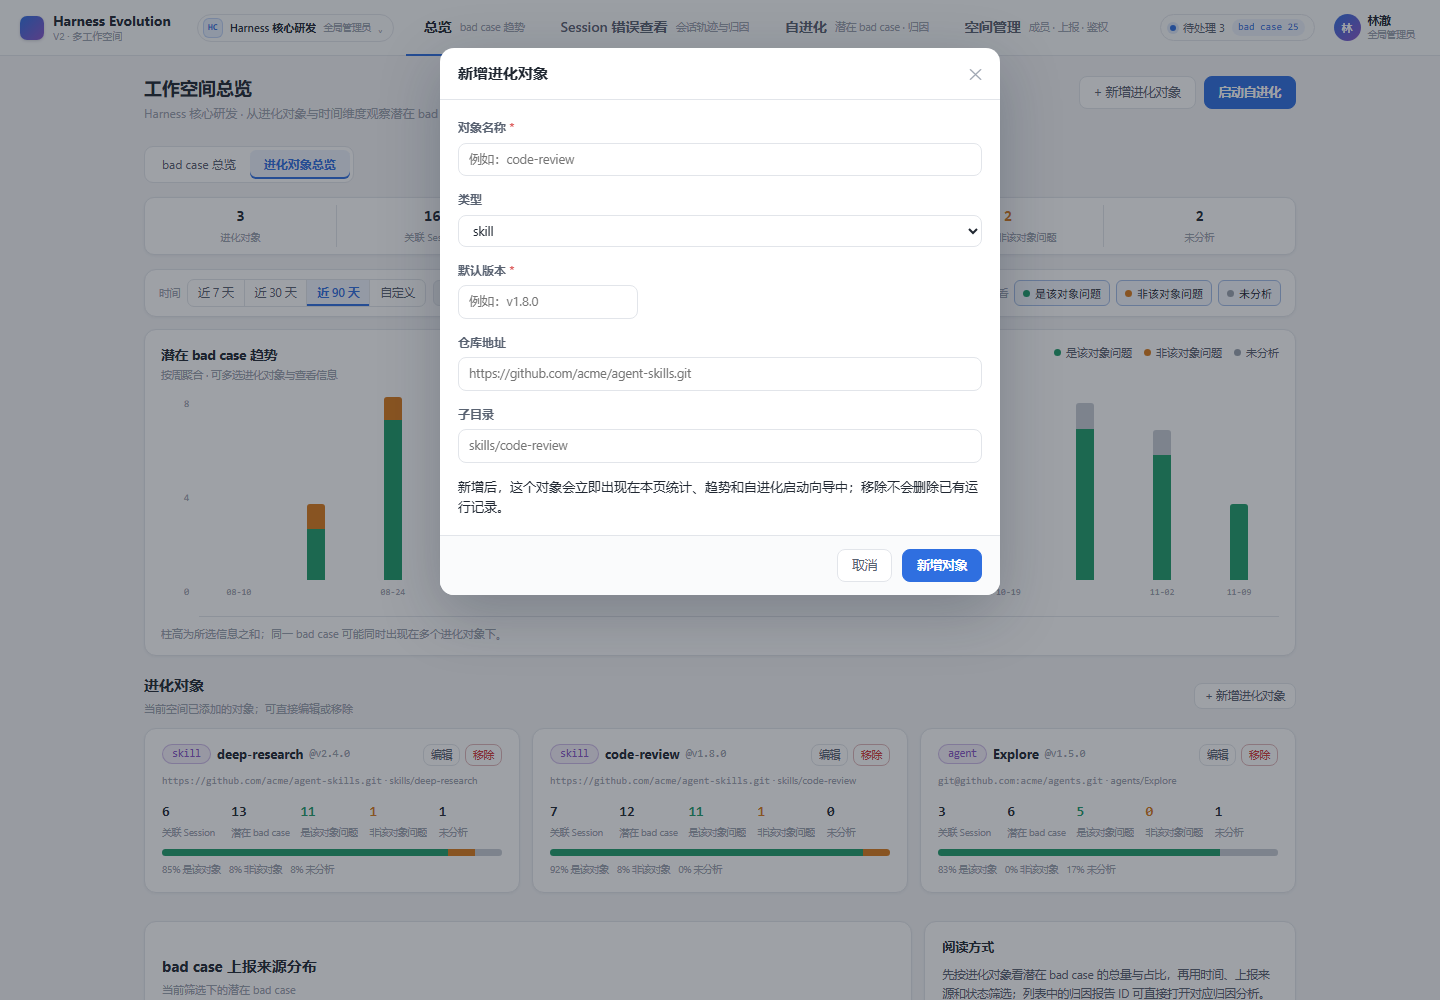
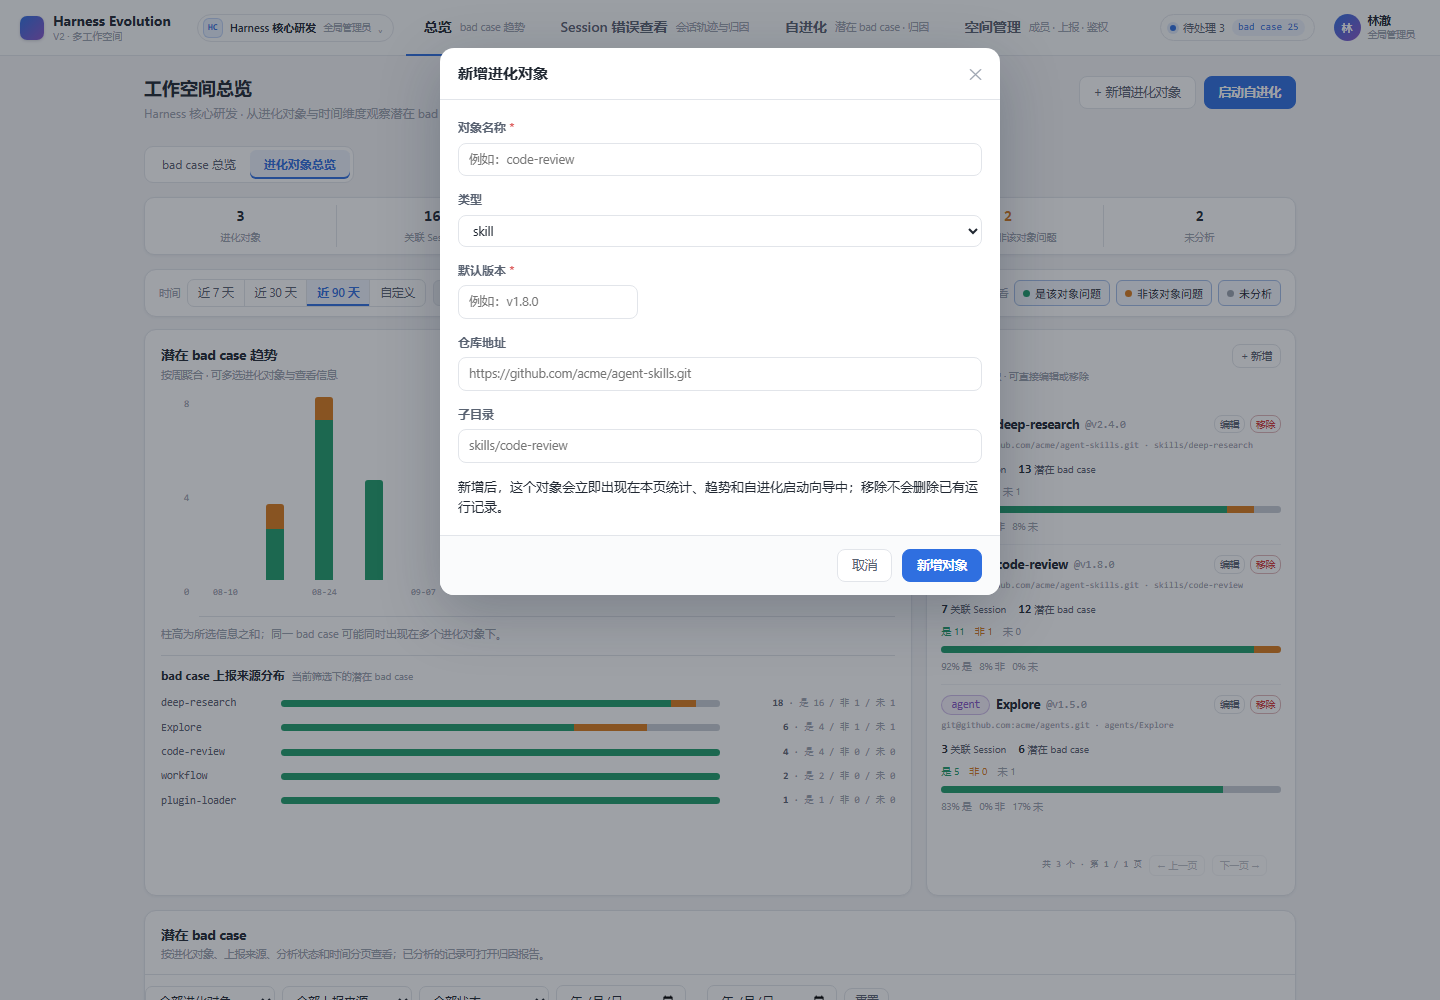
feat(prototype): align target overview with case overview

diff --git a/plans/ui-prototype-v2/harness-evolution.html b/plans/ui-prototype-v2/harness-evolution.html
@@ -970,6 +970,30 @@
 .v2-page .tg-bar.notTarget { background: var(--orange); }
 .v2-page .tg-bar.unanalyzed { background: #c7ccd4; }
 .v2-page .tg-lbl { font-family: var(--mono); font-size: 9px; color: var(--text-faint); white-space: nowrap; height: 12px; }
+.v2-page .tg-side { padding: 14px 14px 10px; }
+.v2-page .tg-side-head { display: flex; align-items: flex-start; justify-content: space-between; gap: 8px; margin-bottom: 8px; }
+.v2-page .tg-side-head h3 { margin: 0; font-size: 14px; }
+.v2-page .tg-side-head .v2-note { display: block; margin-top: 2px; }
+.v2-page .tg-side-head .btn { padding: 3px 8px; font-size: 10.5px; }
+.v2-page .tg-side-item { padding: 10px 0; border-top: 1px solid #f0f2f5; }
+.v2-page .tg-side-item:first-child { border-top: 0; }
+.v2-page .tg-side-top { display: flex; align-items: flex-start; justify-content: space-between; gap: 7px; }
+.v2-page .tg-side-top .tg-target-title b { font-size: 12.5px; }
+.v2-page .tg-side-top .tg-target-actions .btn { padding: 1px 5px; font-size: 9.5px; }
+.v2-page .tg-side-repo { margin-top: 4px; font-family: var(--mono); font-size: 9px; color: var(--text-faint); white-space: nowrap; overflow: hidden; text-overflow: ellipsis; }
+.v2-page .tg-side-meta { display: flex; gap: 12px; margin-top: 7px; font-size: 10px; color: var(--text-dim); }
+.v2-page .tg-side-meta b { font-family: var(--mono); font-size: 12px; color: var(--text); }
+.v2-page .tg-side-counts { display: flex; gap: 10px; margin-top: 5px; font-size: 10px; color: var(--text-faint); }
+.v2-page .tg-side .tg-ratio { margin-top: 7px; }
+.v2-page .tg-side .v2-pager { margin-top: 9px; gap: 7px; }
+.v2-page .tg-side .v2-pager .info { font-size: 9px; }
+.v2-page .tg-side .v2-pager button { padding: 2px 7px; font-size: 9.5px; }
+.v2-page .tg-source-objects { margin-top: 12px; border-top: 1px solid var(--border); padding-top: 10px; }
+.v2-page .tg-source-title { display: flex; align-items: baseline; gap: 7px; margin-bottom: 3px; font-size: 12px; font-weight: 650; }
+.v2-page .tg-source-title span { font-size: 10px; color: var(--text-faint); font-weight: 400; }
+.v2-page .tg-source-obj { grid-template-columns: 110px minmax(0, 1fr) 165px; }
+.v2-page .tg-source-obj .ov-obj-num { font-size: 9.5px; }
+.v2-page .tg-source-obj .ov-obj-bar { height: 7px; border-radius: 4px; overflow: hidden; background: #e8ebf0; }
 .v2-page .tg-section-head { display: flex; align-items: center; justify-content: space-between; gap: 12px; margin: 18px 0 10px; }
 .v2-page .tg-section-head h2 { font-size: 15px; margin: 0; }
 .v2-page .tg-section-head .v2-note { display: block; margin-top: 3px; }
@@ -4261,7 +4285,7 @@ const V2 = {
   targetOv: {
     targets: new Set(), metrics: new Set(['isTarget', 'notTarget', 'unanalyzed']),
     listTarget: '', listSource: '', listStatus: 'all',
-    listFrom: '', listTo: '', page: 1, multiOpen: false,
+    listFrom: '', listTo: '', page: 1, targetPage: 1, multiOpen: false,
   },
   admin: { tab: 'spaces' },
   loginChoice: 'admin',
@@ -4456,7 +4480,7 @@ function v2SwitchWorkspace(id) {
   V2.wsId = id;
   V2.overview.objects.clear(); V2.overview.page = 1;
   V2.overview.listObject = ''; V2.overview.listType = 'all';
-  V2.targetOv.targets.clear(); V2.targetOv.page = 1;
+  V2.targetOv.targets.clear(); V2.targetOv.page = 1; V2.targetOv.targetPage = 1;
   V2.targetOv.listTarget = ''; V2.targetOv.listSource = ''; V2.targetOv.listStatus = 'all';
   const picker = document.getElementById('wsPicker'); if (picker) picker.open = false;
   v2RenderShell();
@@ -4819,34 +4843,28 @@ function v2RenderTargetsOverview() {
     </div>`;
   }).join('');
   const sources = v2TargetSourceRows(rows);
-  const targetCards = all.map(d => {
+  const tPageSize = 3;
+  const tPages = Math.max(1, Math.ceil(all.length / tPageSize));
+  const tPage = Math.min(Math.max(1, V2.targetOv.targetPage || 1), tPages);
+  V2.targetOv.targetPage = tPage;
+  const targetSide = all.slice((tPage - 1) * tPageSize, tPage * tPageSize).map(d => {
     const t = d.target, c = d.counts;
-    const ratio = (n) => d.potential ? (n / d.potential * 100).toFixed(0) : 0;
-    return `<div class="card panel tg-target-card ${selected.has(t.id) ? 'selected' : ''}">
-      <div class="tg-target-head">
-        <div class="tg-target-title"><span class="chip kind">${v2Esc(t.kind)}</span><b>${v2Esc(t.objectName)}</b><span class="mono">@${v2Esc(d.version)}</span></div>
-        <div class="tg-target-actions"><button class="btn sm" data-v2-tg-edit="${t.id}">编辑</button><button class="btn sm danger" data-v2-tg-remove="${t.id}">移除</button></div>
-      </div>
-      <div class="tg-target-meta"><span class="mono">${v2Esc(t.repoUrl || '')}</span>${t.subDir ? ` · ${v2Esc(t.subDir)}` : ''}</div>
-      <div class="tg-target-stats">
-        <div><b>${d.assoc}</b><span>关联 Session</span></div>
-        <div><b>${d.potential}</b><span>潜在 bad case</span></div>
-        <div><b style="color:var(--green)">${c.isTarget}</b><span>是该对象问题</span></div>
-        <div><b style="color:var(--orange)">${c.notTarget}</b><span>非该对象问题</span></div>
-        <div><b>${c.unanalyzed}</b><span>未分析</span></div>
-      </div>
-      <div class="tg-ratio" title="是该对象 ${c.isTarget} · 非该对象 ${c.notTarget} · 未分析 ${c.unanalyzed}">
-        <span class="tg-r-is" style="width:${ratio(c.isTarget)}%"></span><span class="tg-r-not" style="width:${ratio(c.notTarget)}%"></span><span class="tg-r-un" style="width:${ratio(c.unanalyzed)}%"></span>
-      </div>
-      <div class="tg-ratio-legend"><span>${ratio(c.isTarget)}% 是该对象</span><span>${ratio(c.notTarget)}% 非该对象</span><span>${ratio(c.unanalyzed)}% 未分析</span></div>
+    const pct = (n) => d.potential ? (n / d.potential * 100).toFixed(0) : 0;
+    return `<div class="tg-side-item ${selected.has(t.id) ? 'selected' : ''}">
+      <div class="tg-side-top"><div class="tg-target-title"><span class="chip kind">${v2Esc(t.kind)}</span><b>${v2Esc(t.objectName)}</b><span class="mono">@${v2Esc(d.version)}</span></div><div class="tg-target-actions"><button class="btn sm" data-v2-tg-edit="${t.id}">编辑</button><button class="btn sm danger" data-v2-tg-remove="${t.id}">移除</button></div></div>
+      <div class="tg-side-repo" title="${v2Esc(t.repoUrl || '')}${t.subDir ? ' · ' + v2Esc(t.subDir) : ''}">${v2Esc(t.repoUrl || '')}${t.subDir ? ` · ${v2Esc(t.subDir)}` : ''}</div>
+      <div class="tg-side-meta"><span><b>${d.assoc}</b> 关联 Session</span><span><b>${d.potential}</b> 潜在 bad case</span></div>
+      <div class="tg-side-counts"><span style="color:var(--green)">是 ${c.isTarget}</span><span style="color:var(--orange)">非 ${c.notTarget}</span><span>未 ${c.unanalyzed}</span></div>
+      <div class="tg-ratio" title="是该对象 ${c.isTarget} · 非该对象 ${c.notTarget} · 未分析 ${c.unanalyzed}"><span class="tg-r-is" style="width:${pct(c.isTarget)}%"></span><span class="tg-r-not" style="width:${pct(c.notTarget)}%"></span><span class="tg-r-un" style="width:${pct(c.unanalyzed)}%"></span></div>
+      <div class="tg-ratio-legend"><span>${pct(c.isTarget)}% 是</span><span>${pct(c.notTarget)}% 非</span><span>${pct(c.unanalyzed)}% 未</span></div>
     </div>`;
   }).join('');
-  const sourceRows = sources.slice(0, 8).map(s => {
+  const sourceRows = sources.slice(0, 6).map(s => {
     const total = s.total || 1;
-    return `<div class="tg-source-row">
-      <span class="tg-source-name">${v2Esc(s.name)}</span>
-      <span class="tg-source-bar"><span class="tg-r-is" style="width:${s.isTarget / total * 100}%"></span><span class="tg-r-not" style="width:${s.notTarget / total * 100}%"></span><span class="tg-r-un" style="width:${s.unanalyzed / total * 100}%"></span></span>
-      <span class="tg-source-num"><b>${s.total}</b> · 是 ${s.isTarget} / 非 ${s.notTarget} / 未 ${s.unanalyzed}</span>
+    return `<div class="ov-obj-row tg-source-obj">
+      <span class="ov-obj-name" title="${v2Esc(s.name)}">${v2Esc(s.name)}</span>
+      <span class="ov-obj-bar"><span class="tg-r-is" style="width:${s.isTarget / total * 100}%"></span><span class="tg-r-not" style="width:${s.notTarget / total * 100}%"></span><span class="tg-r-un" style="width:${s.unanalyzed / total * 100}%"></span></span>
+      <span class="ov-obj-num"><b>${s.total}</b> · 是 ${s.isTarget} / 非 ${s.notTarget} / 未 ${s.unanalyzed}</span>
     </div>`;
   }).join('');
   const tf = V2.targetOv;
@@ -4917,16 +4935,21 @@ function v2RenderTargetsOverview() {
       ${metrics.map(k => `<button class="tg-metric ${V2.targetOv.metrics.has(k) ? 'on' : ''}" data-v2-tg-metric="${k}"><i class="tg-dot ${k}"></i>${V2_TG_STATUS[k].short}</button>`).join('')}
     </div>
   </div>
-  <div class="card ov-chart-card tg-chart-card">
-    <div class="ov-card-head"><div><h2>潜在 bad case 趋势</h2><div class="hint">按${V2.overview.grain === 'day' ? '日' : V2.overview.grain === 'week' ? '周' : '月'}聚合 · 可多选进化对象与查看信息</div></div><span class="spacer"></span><div class="tg-legend">${chosen.map(k => `<span><i class="tg-dot ${k}"></i>${V2_TG_STATUS[k].short}</span>`).join('') || '<span class="v2-note">未选择查看信息</span>'}</div></div>
-    ${rows.length ? `<div class="tg-chart"><div class="tg-yaxis"><span>${bucketMax}</span><span>${Math.round(bucketMax / 2)}</span><span>0</span></div><div class="tg-buckets">${chart}</div></div>` : '<div class="ov-empty"><b>当前条件下没有潜在 bad case</b>调整时间、进化对象或查看信息后重试。</div>'}
-    <p class="v2-note" style="margin:8px 0 0">柱高为所选信息之和；同一 bad case 可能同时出现在多个进化对象下。</p>
-  </div>
-  <div class="tg-section-head"><div><h2>进化对象</h2><span class="v2-note">当前空间已添加的对象；可直接编辑或移除</span></div><button class="btn sm" data-v2-tg-add>+ 新增进化对象</button></div>
-  <div class="tg-target-grid">${targetCards || '<div class="card panel waiting">当前空间还没有进化对象，先新增一个。</div>'}</div>
-  <div class="tg-grid2">
-    <div class="card panel tg-source-card"><div class="tg-section-head"><div><h2>bad case 上报来源分布</h2><span class="v2-note">当前筛选下的潜在 bad case</span></div></div>${sourceRows || '<div class="waiting">暂无来源数据</div>'}</div>
-    <div class="card panel tg-note-card"><h3>阅读方式</h3><p>先按进化对象看潜在 bad case 的总量与占比，再用时间、上报来源和状态筛选；列表中的归因报告 ID 可直接打开对应归因分析。</p><div class="tg-ratio-legend"><span>绿 = 是该对象问题</span><span>橙 = 非该对象问题</span><span>灰 = 未分析</span></div></div>
+  <div class="ov-grid">
+    <div class="card ov-chart-card">
+      <div class="ov-card-head"><div><h2>潜在 bad case 趋势</h2><div class="hint">按${V2.overview.grain === 'day' ? '日' : V2.overview.grain === 'week' ? '周' : '月'}聚合 · 可多选进化对象与查看信息</div></div><span class="spacer"></span><div class="tg-legend">${chosen.map(k => `<span><i class="tg-dot ${k}"></i>${V2_TG_STATUS[k].short}</span>`).join('') || '<span class="v2-note">未选择查看信息</span>'}</div></div>
+      ${rows.length ? `<div class="tg-chart"><div class="tg-yaxis"><span>${bucketMax}</span><span>${Math.round(bucketMax / 2)}</span><span>0</span></div><div class="tg-buckets">${chart}</div></div>` : '<div class="ov-empty"><b>当前条件下没有潜在 bad case</b>调整时间、进化对象或查看信息后重试。</div>'}
+      <p class="v2-note" style="margin:8px 0 0">柱高为所选信息之和；同一 bad case 可能同时出现在多个进化对象下。</p>
+      <div class="ov-objects tg-source-objects">
+        <div class="tg-source-title">bad case 上报来源分布 <span>当前筛选下的潜在 bad case</span></div>
+        ${sourceRows || '<div class="waiting">暂无来源数据</div>'}
+      </div>
+    </div>
+    <div class="card ov-side tg-side">
+      <div class="tg-side-head"><div><h3>进化对象</h3><span class="v2-note">已添加的对象 · 可直接编辑或移除</span></div><button class="btn sm" data-v2-tg-add>+ 新增</button></div>
+      <div class="tg-side-list">${targetSide || '<div class="waiting">当前空间还没有进化对象，先新增一个。</div>'}</div>
+      <div class="v2-pager"><span class="info">共 ${all.length} 个 · 第 ${tPage} / ${tPages} 页</span><button data-v2-tg-side-page="${tPage - 1}" ${tPage <= 1 ? 'disabled' : ''}>← 上一页</button><button data-v2-tg-side-page="${tPage + 1}" ${tPage >= tPages ? 'disabled' : ''}>下一页 →</button></div>
+    </div>
   </div>
   <div class="card ov-list-card">
     <div class="ov-list-head"><div><h2>潜在 bad case</h2><div class="hint">按进化对象、上报来源、分析状态和时间分页查看；已分析的记录可打开归因报告。</div></div></div>
@@ -5247,7 +5270,7 @@ function v2SetMemberRole(uid, role) {
 
 /* ── 事件 ── */
 document.addEventListener('click', e => {
-  const el = e.target.closest('[data-v2-login-user],[data-v2-switch-ws],[data-v2-manage-ws],[data-v2-preview-login],[data-v2-admin-entry],[data-v2-logout],[data-v2-ov-range],[data-v2-ov-grain],[data-v2-ov-clear],[data-v2-ov-remove],[data-v2-ov-page],[data-v2-ov-reset],[data-v2-ov-tab],[data-v2-tg-add],[data-v2-tg-edit],[data-v2-tg-remove],[data-v2-tg-metric],[data-v2-tg-clear],[data-v2-tg-page],[data-v2-tg-reset],[data-v2-tg-save],[data-v2-overview-case],[data-v2-overview-ingest],[data-v2-overview-evo],[data-v2-copy-endpoint],[data-v2-admin-tab],[data-v2-open-ws],[data-v2-members-ws],[data-v2-quota-ws],[data-v2-create-ws],[data-v2-add-member],[data-v2-self-admin],[data-v2-remove-member],[data-v2-copy],[data-v2-rotate-token],[data-v2-close],[data-v2-save-ws],[data-v2-save-member]');
+  const el = e.target.closest('[data-v2-login-user],[data-v2-switch-ws],[data-v2-manage-ws],[data-v2-preview-login],[data-v2-admin-entry],[data-v2-logout],[data-v2-ov-range],[data-v2-ov-grain],[data-v2-ov-clear],[data-v2-ov-remove],[data-v2-ov-page],[data-v2-ov-reset],[data-v2-ov-tab],[data-v2-tg-add],[data-v2-tg-edit],[data-v2-tg-remove],[data-v2-tg-metric],[data-v2-tg-clear],[data-v2-tg-page],[data-v2-tg-side-page],[data-v2-tg-reset],[data-v2-tg-save],[data-v2-overview-case],[data-v2-overview-ingest],[data-v2-overview-evo],[data-v2-copy-endpoint],[data-v2-admin-tab],[data-v2-open-ws],[data-v2-members-ws],[data-v2-quota-ws],[data-v2-create-ws],[data-v2-add-member],[data-v2-self-admin],[data-v2-remove-member],[data-v2-copy],[data-v2-rotate-token],[data-v2-close],[data-v2-save-ws],[data-v2-save-member]');
   if (!el) return;
   const ds = el.dataset;
   if (ds.v2LoginUser) { V2.loginChoice = ds.v2LoginUser; v2RenderLogin(); return; }
@@ -5269,6 +5292,7 @@ document.addEventListener('click', e => {
   if (ds.v2TgMetric) { const k = ds.v2TgMetric; if (V2.targetOv.metrics.has(k)) V2.targetOv.metrics.delete(k); else V2.targetOv.metrics.add(k); v2RenderOverview(); return; }
   if (ds.v2TgClear !== undefined) { V2.targetOv.targets.clear(); V2.targetOv.page = 1; v2RenderOverview(); return; }
   if (ds.v2TgPage) { V2.targetOv.page = Math.max(1, +ds.v2TgPage); v2RenderOverview(); return; }
+  if (ds.v2TgSidePage) { V2.targetOv.targetPage = Math.max(1, +ds.v2TgSidePage); v2RenderOverview(); return; }
   if (ds.v2TgReset !== undefined) { V2.targetOv.listFrom = ''; V2.targetOv.listTo = ''; V2.targetOv.listTarget = ''; V2.targetOv.listSource = ''; V2.targetOv.listStatus = 'all'; V2.targetOv.page = 1; v2RenderOverview(); return; }
   if (ds.v2TgSave !== undefined) { v2SaveTarget(ds.v2TgSave || null); return; }
   if (ds.v2OvClear !== undefined) { V2.overview.objects.clear(); v2RenderOverview(); return; }
@@ -5355,7 +5379,7 @@ function v2Boot() {
     window.V2_READY = true;
     v2LoginAs(userParam, { keepPage: true, silent: true, auto: true });
     v2SetPage(V2.page);
-    if (q.get('tab') === 'targets' && V2.page === 'overview') { V2.overview.tab = 'targets'; v2RenderOverview(); }
+    if (q.get('tab') === 'targets' && V2.page === 'overview') { V2.overview.tab = 'targets'; if (q.has('targetpage')) V2.targetOv.targetPage = Number(q.get('targetpage')) || 1; v2RenderOverview(); }
     if (q.get('targetadd') === '1') setTimeout(() => v2TargetModal(null), 500);
     if (q.has('step') && window.__evState) {
       window.__evState.selStep = Math.max(0, Math.min(6, Number(q.get('step')) || 0));

diff --git a/plans/ui-prototype-v2/design-v2.md b/plans/ui-prototype-v2/design-v2.md
@@ -141,8 +141,9 @@ Content-Type: application/json
 ### 5.3 双视角：bad case / 进化对象
 
 - 总览标题下方用二级 Tab 切换「bad case 总览」「进化对象总览」，共享空间与时间上下文。
+- 布局沿用 bad case 总览：左侧趋势图 + 下方上报来源分布，右侧原「空间额度」位置改为分页的进化对象列表，底部仍是潜在 bad case 列表。
 - 进化对象总览展示：对象数、关联 Session、潜在 bad case、已分析（是该对象 / 非该对象）、未分析。
-- 进化对象卡片可直接新增、编辑、移除；卡片内显示各状态数量与占比条。
+- 右侧对象列表每项显示对象/版本、关联 Session、潜在 bad case、三种状态数量、占比条；可直接新增、编辑、移除，超过每页数量时分页。
 - 趋势图支持多选进化对象、时间范围、粒度，以及多选查看信息（是该对象 / 非该对象 / 未分析）。
 - 上报来源分布按 `bad case 上报来源` 聚合，显示各状态数量。
 - 列表支持进化对象、上报来源、状态、时间段筛选；已分析记录展示归因报告 ID，可点击跳转归因分析。
